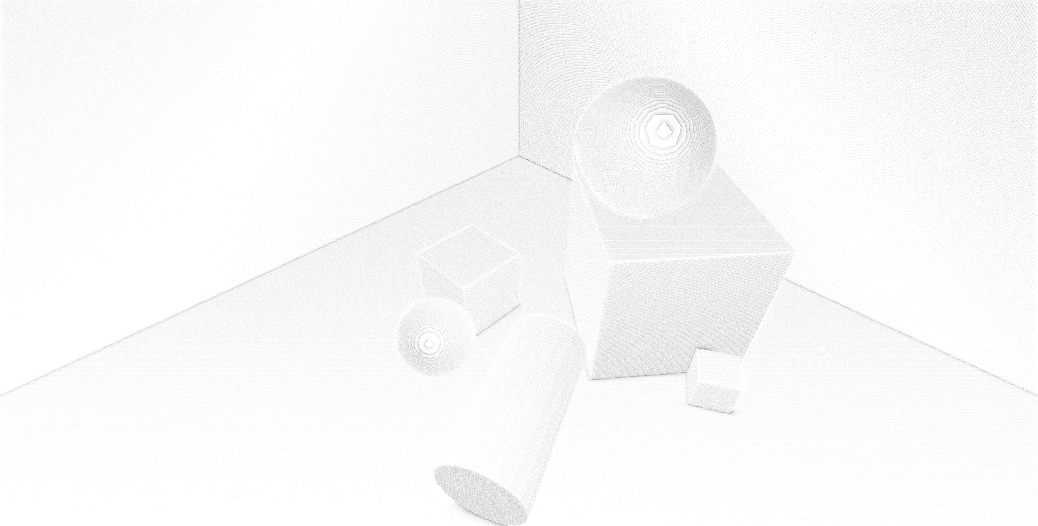
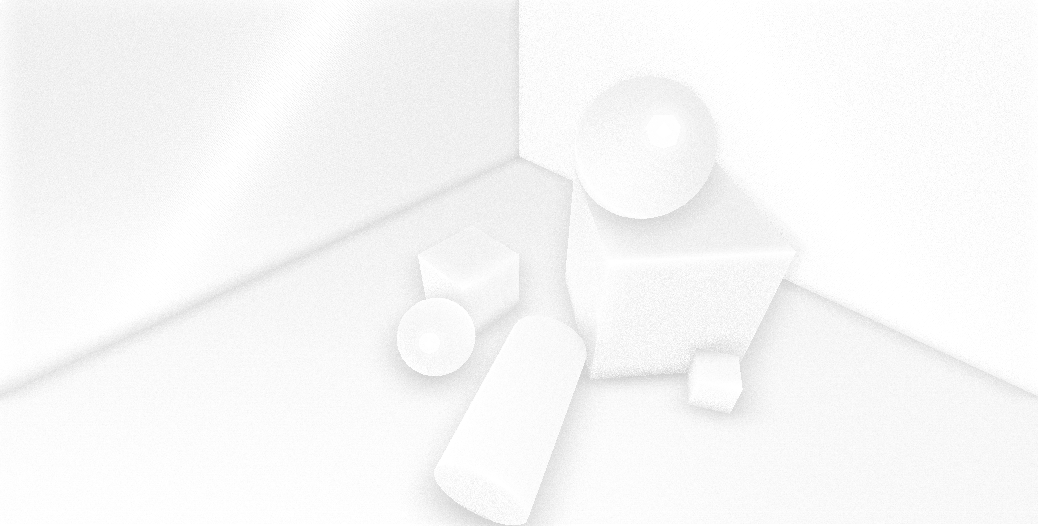
fix: modify the calculation of weight

diff --git a/Assets/SSAO/SSAO.cs b/Assets/SSAO/SSAO.cs
@@ -10,7 +10,7 @@ public class SSAO : PostEffectsBase
     
     public float sampleCount = 128f;
     public float sampleRadius = 0.618f;
-    public float depthRange = 0.0001f;
+    public float depthRange = 0.01f;
     public bool onlyOcclusion = false;
 
     private Material material

diff --git a/README.md b/README.md
@@ -13,8 +13,8 @@ Only SSAO:
 
 #### 参考资料
 
- - https://www.bilibili.com/video/BV16q4y1U7S3
- - https://www.bilibili.com/video/BV1YK4y1T7yY
+ - https://www.bilibili.com/video/BV16q4y1U7S3?p=2
+ - https://www.bilibili.com/video/BV1YK4y1T7yY?p=8
  - https://blog.csdn.net/linuxheik/article/details/86691117
  - https://zhuanlan.zhihu.com/p/148627526
  - https://zhuanlan.zhihu.com/p/510620589
